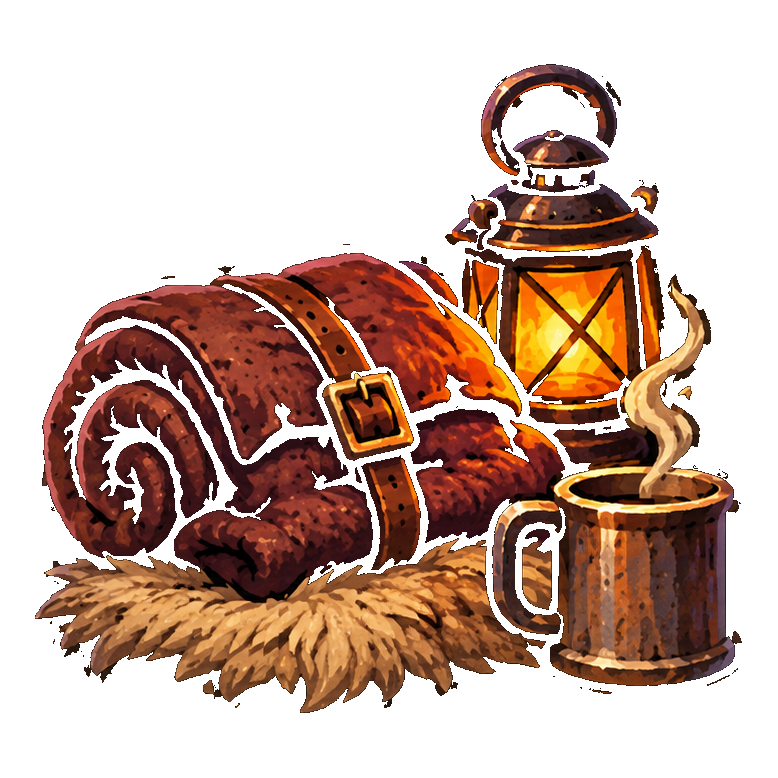
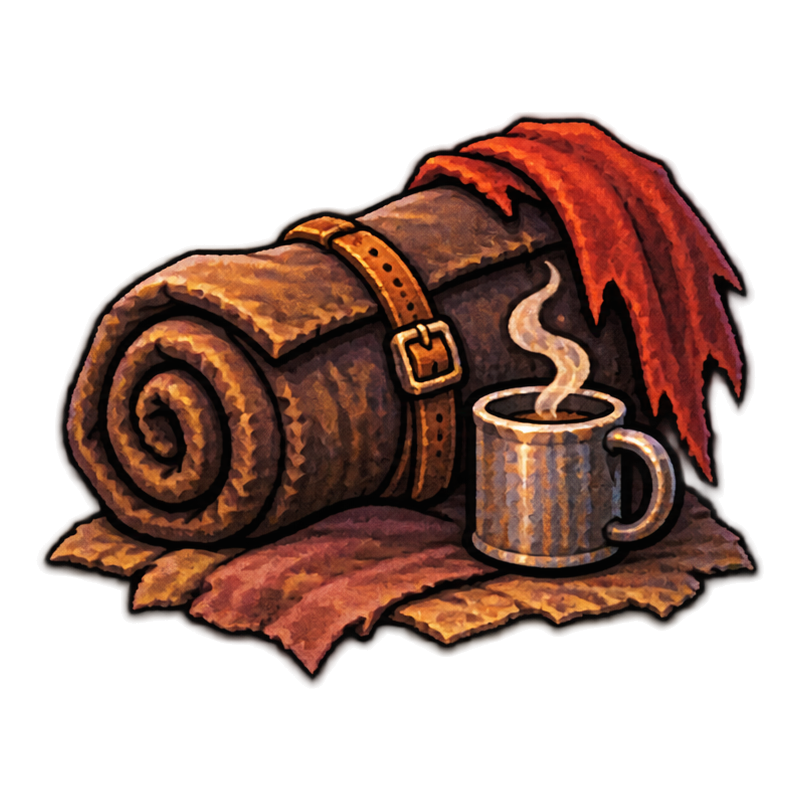
Acampamento: os três ícones da folha 3

diff --git a/docs/ARTE.md b/docs/ARTE.md
@@ -15,7 +15,7 @@
 | Ícones das estações do laboratório | 6 | **Pronto** (versão alternativa: folha L1b) |
 | Melhorias da Oficina | 5 | **Pronto** |
 | Acampamento: barraca com fogueira no centro | 1 | **Pronto** (recortada da folha "Fogueiras e Acampamento"; a fogueira avulsa está em `assets/art/extra/camp/`; o fundo alternativo está em `assets/art/extra/backgrounds/camp_v2.png`) |
-| Acampamento: ícones das opções | 3 | **Pronto** (Descansar da folha 4, Aprimorar e Purgar da folha 3; as outras versões estão em `assets/art/extra/camp/alt/`) |
+| Acampamento: ícones das opções | 3 | **Pronto** (os três da folha 3; as outras versões estão em `assets/art/extra/camp/alt/`) |
 
 As imagens ficam em `assets/art/<monsters|cards|parts|mutations|events|backgrounds|stations|upgrades|camp|ui>/<id>.png` e o jogo as carrega
 sozinho pelo nome do arquivo. Para trocar uma imagem, basta substituir o arquivo com o mesmo nome.
@@ -263,8 +263,7 @@ A **barraca com fogueira** no centro já está no jogo (recortada da folha "Fogu
 distribuição originais. O fundo alternativo, com a fogueira no meio, ficou guardado em
 `assets/art/extra/backgrounds/camp_v2.png`.
 
-Os **ícones das opções** (3) também estão no jogo, escolhidos entre 4 folhas: Descansar da folha 4,
-Aprimorar e Purgar da folha 3. As 12 versões ficam em `assets/art/extra/camp/alt/` (`<opção>_v<folha>.png`);
+Os **ícones das opções** (3) também estão no jogo, escolhidos entre 4 folhas: os três da folha 3. As 12 versões ficam em `assets/art/extra/camp/alt/` (`<opção>_v<folha>.png`);
 para trocar, copie a escolhida para `assets/art/camp/<opção>.png`. O pedido abaixo fica para refazer.
 
 Peça em **folha**, como as outras: objetos isolados, fundo transparente ou liso, **na ordem da lista** e sem
